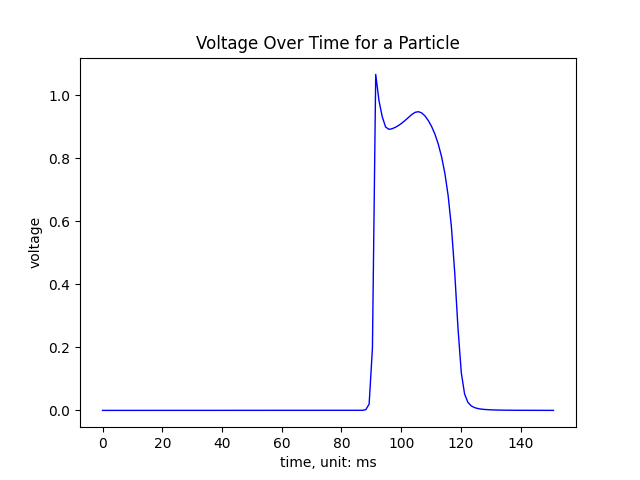
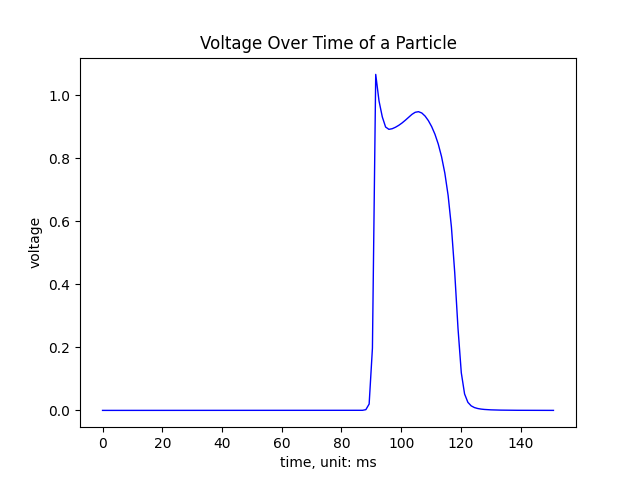
.

Changed region(s): [[0.3125, 0.0625, 0.7188, 0.125]]

diff --git a/tools/load_sim_result.py b/tools/load_sim_result.py
@@ -88,7 +88,7 @@ if debug_plot == 1:
     plt.plot(t, voltage[particle_id], 'b-', linewidth=1)
     plt.xlabel('time, unit: ms')
     plt.ylabel('voltage')
-    plt.title('Voltage Over Time for a Particle')
+    plt.title('Voltage Over Time of a Particle')
     plt.savefig('/home/j/Desktop/voltage_of_a_particle.png')
 
 stress = []
@@ -107,7 +107,7 @@ if debug_plot == 1:
     plt.plot(t, stress[particle_id], 'b-', linewidth=1)
     plt.xlabel('time, unit: ms')
     plt.ylabel('stress')
-    plt.title('Stress Over Time for a Particle')
+    plt.title('Stress Over Time of a Particle')
     plt.savefig('/home/j/Desktop/stress_of_a_particle.png')
 
 xyz = [] # xyz[particle_id][time][coordinate_id]
@@ -127,5 +127,5 @@ if debug_plot == 1:
     plt.plot(t, x_coordinate, 'b-', linewidth=1)
     plt.xlabel('time, unit: ms')
     plt.ylabel('x coordinate')
-    plt.title('x Coordinate vs Time for a Particle')
+    plt.title('x Coordinate vs Time of a Particle')
     plt.savefig('/home/j/Desktop/x_coordinate_of_a_particle.png')

diff --git a/README.md b/README.md
@@ -1,5 +1,6 @@
 ![Demo](electromechanical_simulation.gif)
 ![Demo](voltage_of_a_particle.png)
+![Demo](stress_of_a_particle.png)
 
 # Introduction
 ------------------------------  
